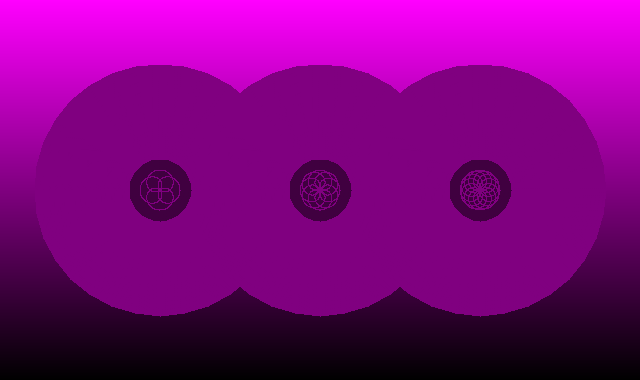
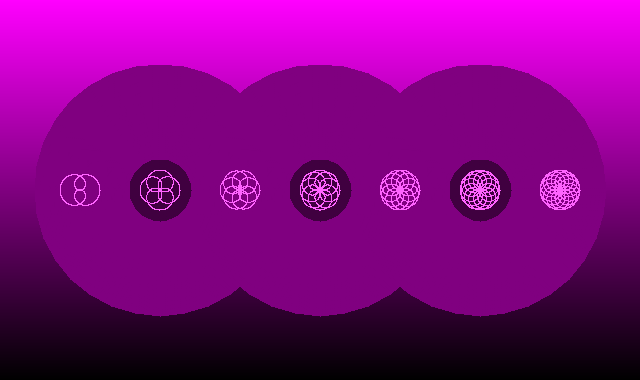
updated art

diff --git a/src/draw_art.cpp b/src/draw_art.cpp
@@ -12,148 +12,159 @@ int main(int argc, char** argv)
    int HEIGHT = 380;
    Canvas drawer(WIDTH, HEIGHT);
    
-   //--------------------------- ART 1 ---------------------------
-   drawer.background(255, 255, 255);
-   drawer.gradient({0, 0, 255}, {0, 255, 255}, "horizontal", 0.5);
-   drawer.color(245, 245, 220);
-   drawer.rectangle(0.1 * WIDTH, 0.9 * WIDTH, 0.3 * HEIGHT, 0.7 * HEIGHT);
-   drawer.color(245, 245, 220);
-   drawer.circle(WIDTH / 2, HEIGHT / 2, HEIGHT / 3);
-   drawer.color(255, 255, 255);
-   for (int i = 1; i < 10; i++) {
-      drawer.star(0.1 * i * WIDTH, 0.1 * HEIGHT, 0.05 * HEIGHT);
-      drawer.star(0.1 * i * WIDTH, 0.9 * HEIGHT, 0.05 * HEIGHT);
-   }
-   drawer.color(255, 0, 255);
-   drawer.setLineWidth(2);
-   drawer.rose(WIDTH / 2, HEIGHT / 2, HEIGHT / 4, 7, 4);
-   drawer.glow();
-   drawer.save("../images/art/art-1.png");
-   drawer.setLineWidth(1);
+   // //--------------------------- ART 1 ---------------------------
+   // drawer.background(0, 0, 0);
+   // drawer.color(245, 245, 220);
+   // drawer.rectangle(0.1 * WIDTH, 0.3 * HEIGHT, 0.9 * WIDTH, 0.7 * HEIGHT);
+   // drawer.color(245, 245, 220);
+   // drawer.circle(WIDTH / 2, HEIGHT / 2, HEIGHT / 3);
+   // drawer.color(255, 255, 255);
+   // for (int i = 1; i < 10; i++) {
+   //    drawer.star(0.1 * i * WIDTH, 0.1 * HEIGHT, 0.05 * HEIGHT);
+   //    drawer.star(0.1 * i * WIDTH, 0.9 * HEIGHT, 0.05 * HEIGHT);
+   // }
+   // drawer.color(255, 0, 255);
+   // drawer.setLineWidth(2);
+   // drawer.rose(WIDTH / 2, HEIGHT / 2, HEIGHT / 4, 7, 4);
+   // drawer.glow();
+   // drawer.gradient({0, 0, 255}, {0, 255, 255}, "horizontal", 0.1);
+   // drawer.save("../images/art/art-1.png");
+   // drawer.setLineWidth(1);
 
 
-   //--------------------------- ART 2 ---------------------------
-   drawer.background(0, 0, 0);
-   drawer.gradient({0, 0, 0}, {255, 0, 255}, "vertical", 1);
-   drawer.color(128, 0, 128);
-   drawer.circle(WIDTH / 4, HEIGHT / 2, HEIGHT / 3);
-   drawer.circle(WIDTH / 2, HEIGHT / 2, HEIGHT / 3);
-   drawer.circle(3 * WIDTH / 4, HEIGHT / 2, HEIGHT / 3);
-   drawer.color(64, 0, 64);
-   drawer.circle(WIDTH / 4, HEIGHT / 2, HEIGHT / 12);
-   drawer.circle(WIDTH / 2, HEIGHT / 2, HEIGHT / 12);
-   drawer.circle(3 * WIDTH / 4, HEIGHT / 2, HEIGHT / 12);
-   drawer.color(128, 0, 128);
-   int x;
-   int y = 0.5 * HEIGHT;
-   for (int n = 1; n <= 7; n++) {
-      int d = n + 1;
-      x = ((float) n / 8) * WIDTH;
-      drawer.rose(x, y, 20, n, d);
-   }
-   drawer.glow();
-   drawer.save("../images/art/art-2.png");
-
-
-
-   //--------------------------- ART 3 ---------------------------
-   drawer.background(0, 0, 0);
-   int centerX, centerY, a, n, d;
-   for (int i = 1; i <= 50; i++) {
-      drawer.color(rand() % 256, rand() % 256, rand() % 256);
-      centerX = rand() % WIDTH;
-      centerY = rand() % HEIGHT;
-      a = rand() % min(WIDTH / 2, HEIGHT / 2);
-      n = rand() % 8;
-      d = rand() % 100;
-      drawer.maurerRose(centerX, centerY, a, n, d);
-   }
-   drawer.glow();
-   drawer.save("../images/art/art-3.png");
+   // //--------------------------- ART 2 ---------------------------
+   // drawer.background(0, 0, 0);
+   // drawer.gradient({0, 0, 0}, {255, 0, 255}, "vertical", 1);
+   // drawer.color(128, 0, 128);
+   // drawer.circle(WIDTH / 4, HEIGHT / 2, HEIGHT / 3);
+   // drawer.circle(WIDTH / 2, HEIGHT / 2, HEIGHT / 3);
+   // drawer.circle(3 * WIDTH / 4, HEIGHT / 2, HEIGHT / 3);
+   // drawer.color(64, 0, 64);
+   // drawer.circle(WIDTH / 4, HEIGHT / 2, HEIGHT / 12);
+   // drawer.circle(WIDTH / 2, HEIGHT / 2, HEIGHT / 12);
+   // drawer.circle(3 * WIDTH / 4, HEIGHT / 2, HEIGHT / 12);
+   // drawer.color(255, 100, 255);
+   // int y = 0.5 * HEIGHT;
+   // for (int n = 1; n <= 7; n++) {
+   //    int d = n + 1;
+   //    int x = ((float) n / 8) * WIDTH;
+   //    drawer.rose(x, y, 20, n, d);
+   // }
+   // drawer.glow();
+   // drawer.save("../images/art/art-2.png");
 
 
 
-   //--------------------------- ART 4 ---------------------------
-   drawer.background(0, 0, 0);
-   int xLeft, yBottom, xRight, yTop, radius;
-   for (int i = 1; i <= 100; i++) {
-      drawer.color(rand() % 256, rand() % 256, rand() % 256);
-      if (i % 3 == 0) {
-         drawer.toggleShapeFill();
-      }
-      if (i % 2 == 0) {
-         xLeft = rand() % WIDTH;
-         yBottom = rand() % HEIGHT;
-         xRight = xLeft + rand() % (WIDTH - xLeft);
-         yTop = yBottom + rand() % (HEIGHT - yBottom);
-         if (i % 3 == 0) {
-            drawer.toggleShapeFill();
-         }
-         drawer.rectangle(xLeft, yBottom, xRight, yTop);
-      } else {
-         centerX = rand() % WIDTH;
-         centerY = rand() % HEIGHT;
-         radius = rand() % (min({centerX, WIDTH - centerX, centerY, HEIGHT - centerY}) + 1);
-         drawer.circle(centerX, centerY, radius);
-      }
-      if (i % 3 == 0) {
-         drawer.toggleShapeFill();
-      }
-   }
-   drawer.glow();
-   drawer.save("../images/art/art-4.png");
+   // //--------------------------- ART 3 ---------------------------
+   // drawer.background(0, 0, 0);
+   // for (int i = 1; i <= 50; i++) {
+   //    drawer.color(rand() % 256, rand() % 256, rand() % 256);
+   //    int centerX = rand() % WIDTH;
+   //    int centerY = rand() % HEIGHT;
+   //    int a = rand() % min(WIDTH / 2, HEIGHT / 2);
+   //    int n = rand() % 8;
+   //    int d = rand() % 100;
+   //    drawer.maurerRose(centerX, centerY, a, n, d);
+   // }
+   // drawer.glow();
+   // drawer.save("../images/art/art-3.png");
 
 
 
-   //--------------------------- ART 5 ---------------------------
-   drawer.background(0, 0, 0);
-   drawer.setBlendMode("average");
-   for (int i = 1; i <= 50; i++) {
-      drawer.color(rand() % 256, rand() % 256, rand() % 256);
-      if (i % 2 == 0) {
-         centerX = rand() % WIDTH;
-         centerY = rand() % HEIGHT;
-         radius = rand() % (min({centerX, WIDTH - centerX, centerY, HEIGHT - centerY}) + 1);
-         if (i % 3 == 0) {
-            drawer.toggleShapeFill();
-         }
-         drawer.star(centerX, centerY, radius);
-         if (i % 3 == 0) {
-            drawer.toggleShapeFill();
-         }
-      } else {
-         centerX = rand() % WIDTH;
-         centerY = rand() % HEIGHT;
-         a = rand() % min(WIDTH / 2, HEIGHT / 2);
-         n = rand() % 8;
-         d = rand() % 10;
-         drawer.rose(centerX, centerY, a, n, d);
-      }
-   }
-   drawer.glow();
-   drawer.save("../images/art/art-5.png");
-   drawer.setBlendMode("replace");
+   // //--------------------------- ART 4 ---------------------------
+   // drawer.background(0, 0, 0);
+   // for (int i = 1; i <= 100; i++) {
+   //    drawer.color(rand() % 256, rand() % 256, rand() % 256);
+   //    if (i % 3 == 0) {
+   //       drawer.toggleShapeFill();
+   //    }
+   //    if (i % 2 == 0) {
+   //       int xLeft = rand() % WIDTH;
+   //       int yBottom = rand() % HEIGHT;
+   //       int xRight = xLeft + rand() % (WIDTH - xLeft);
+   //       int yTop = yBottom + rand() % (HEIGHT - yBottom);
+   //       if (i % 3 == 0) {
+   //          drawer.toggleShapeFill();
+   //       }
+   //       drawer.rectangle(xLeft, yBottom, xRight, yTop);
+   //    } else {
+   //       int centerX = rand() % WIDTH;
+   //       int centerY = rand() % HEIGHT;
+   //       int radius = rand() % (min({centerX, WIDTH - centerX, centerY, HEIGHT - centerY}) + 1);
+   //       drawer.circle(centerX, centerY, radius);
+   //    }
+   //    if (i % 3 == 0) {
+   //       drawer.toggleShapeFill();
+   //    }
+   // }
+   // drawer.glow();
+   // drawer.save("../images/art/art-4.png");
 
 
 
-   //--------------------------- ART 6 ---------------------------
-   drawer.background(0, 0, 0);
-   drawer.color(200, 200, 200);
-   int xStart, yStart, width;
-   for (int i = 1; i <= 300; i++) {
-      if (i % 5 <= 3) {
-         drawer.begin(POINTS);
-         x = rand() % WIDTH;
-         y = rand() % HEIGHT;
-         drawer.vertex(x, y);
-         drawer.end();
-      } else {
-         xStart = rand() % WIDTH;
-         yStart = max(20, rand() % HEIGHT);
-         width = rand() % max(1, ((WIDTH - xStart) / 10));
-         drawer.snowflake(xStart, yStart, width, 2);
-      }
-   }
-   drawer.save("../images/art/art-6.png");
+   // //--------------------------- ART 5 ---------------------------
+   // drawer.background(0, 0, 0);
+   // drawer.setBlendMode("difference");
+   // for (int i = 1; i <= 200; i++) {
+   //    drawer.color(rand() % 256, rand() % 256, rand() % 256);
+   //    int centerX = rand() % WIDTH;
+   //    int centerY = rand() % HEIGHT;
+   //    int radius = rand() % max(1, WIDTH / 5);
+   //    drawer.star(centerX, centerY, radius);
+   // }
+   // drawer.glow();
+   // drawer.save("../images/art/art-5.png");
+   // drawer.setBlendMode("replace");
+
+
+
+
+   // //--------------------------- ART 6 ---------------------------
+   // drawer.background(0, 0, 0);
+   // drawer.color(255, 255, 255);
+   // for (int i = 1; i <= 300; i++) {
+   //    if (i % 5 <= 3) {
+   //       drawer.begin(POINTS);
+   //       int x = rand() % WIDTH;
+   //       int y = rand() % HEIGHT;
+   //       drawer.vertex(x, y);
+   //       drawer.end();
+   //    } else {
+   //       int centerX = rand() % WIDTH;
+   //       int centerY = max(20, rand() % HEIGHT);
+   //       int radius = rand() % max(1, WIDTH / 75);
+   //       drawer.star(centerX, centerY, radius);
+   //    }
+   // }
+   // drawer.glow();
+   // drawer.save("../images/art/art-6.png");
+
+
+
+   // //--------------------------- ART 7 ---------------------------
+   // WIDTH = 4 * WIDTH;
+   // HEIGHT = 4 * HEIGHT;
+   // Canvas drawer1(WIDTH, HEIGHT);
+   // drawer1.color(255, 255, 255);
+   // drawer1.background(50, 120, 180);
+   // drawer1.setBlendMode("average");
+   // drawer1.toggleShapeFill();
+   // for (int i = 1; i <= 500; i++) {
+   //    if (i % 5 <= 3) {
+   //       drawer1.begin(POINTS);
+   //       int x = rand() % WIDTH;
+   //       int y = rand() % HEIGHT;
+   //       drawer1.vertex(x, y);
+   //       drawer1.end();
+   //    } else {
+   //       int xStart = rand() % WIDTH;
+   //       int yStart = max(20, rand() % HEIGHT);
+   //       int width = rand() % max(1, WIDTH / 20);
+   //       drawer1.snowflake(xStart, yStart, width, 4);
+   //    }
+   // }
+   // drawer1.save("../images/art/art-7.png");
+   // drawer1.toggleShapeFill();
+   // drawer1.setBlendMode("replace");
 }
 

diff --git a/src/canvas.cpp b/src/canvas.cpp
@@ -356,7 +356,7 @@ void Canvas::snowflake(int xStart, int yStart, int width, int recursionDepth)
 {
    cout << "Drawing snowflake starting from " << xStart << " " << yStart << " with width " << width << endl;
    _snowflakeOutline = !_fillShapes;
-   this->begin(TRIANGLES);
+   _snowflakeOutline? this->begin(POINTS) : this->begin(TRIANGLES);
    snowflakeHelper(xStart, yStart, xStart + width, yStart, recursionDepth - 1, 60);
    snowflakeHelper(xStart, yStart + 0.577 * width, xStart + width, yStart + 0.577 * width, recursionDepth - 1, 300);
    this->end();

diff --git a/src/draw_test.cpp b/src/draw_test.cpp
@@ -229,7 +229,7 @@ int main(int argc, char** argv)
    drawer1.toggleShapeFill();
    drawer1.background(0, 0, 0);
    drawer1.snowflake(150, 300, 700, 4);
-   drawer1.save("../images/test/outlined-snowflake-4.png");
+   drawer1.save("../images/test/outlined-snowflake.png");
    drawer1.toggleShapeFill();
    
    
